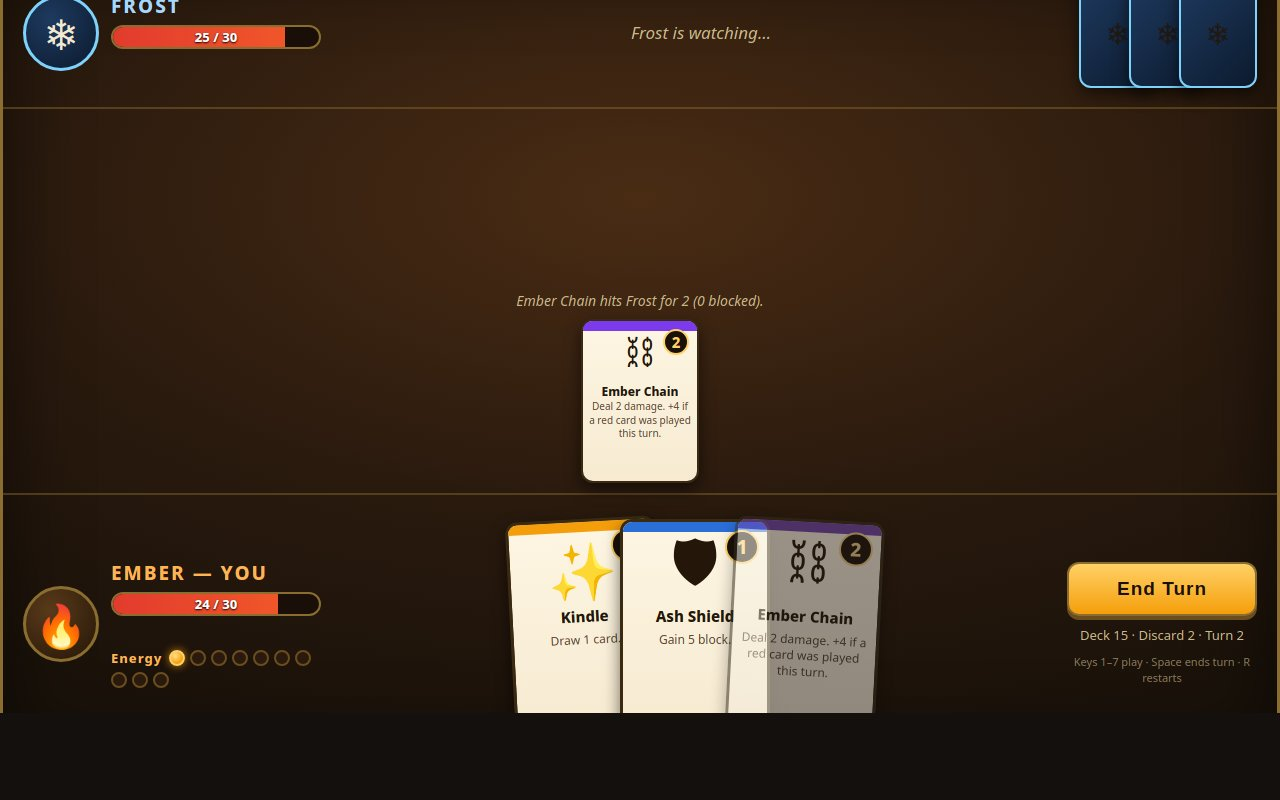
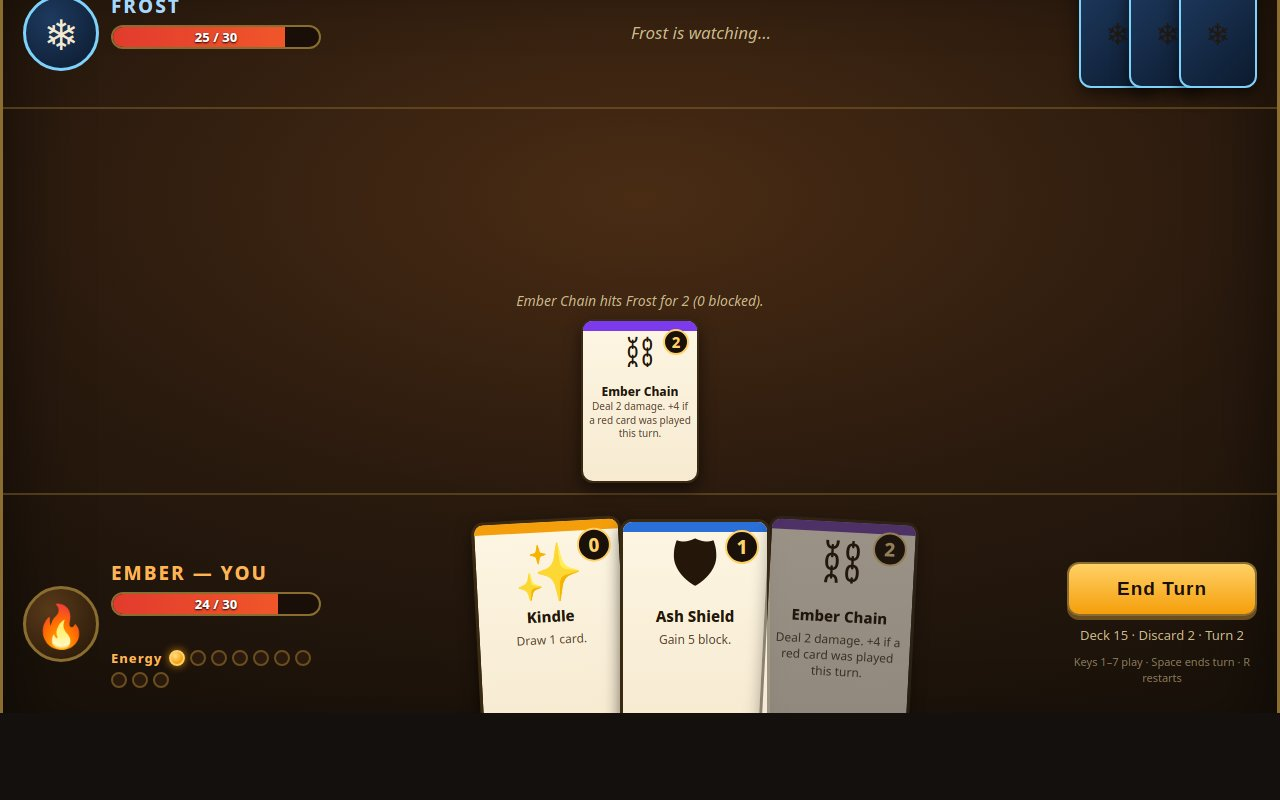
Fix hand legibility: spread player-hand cards so every cost circle and name is visible

Changed region(s): [[0.5625, 0.625, 0.7188, 0.9062], [0.3438, 0.625, 0.5, 0.9062]]

diff --git a/game/style.css b/game/style.css
@@ -102,8 +102,12 @@ body {
   transition: transform 0.18s ease, box-shadow 0.18s ease, opacity 0.18s ease;
   transform: rotate(var(--tilt, 0deg));
 }
-#player-hand .card { margin-left: -40px; }
-#player-hand.tight .card { margin-left: -58px; }
+#player-hand .card { margin-left: -6px; }
+#player-hand.tight .card { margin-left: -6px; width: 118px; height: 164px; border-width: 2px; }
+#player-hand.tight .card .art { font-size: 40px; height: 62px; }
+#player-hand.tight .card .card-name { font-size: 12px; }
+#player-hand.tight .card .card-text { font-size: 10px; padding: 0 6px; }
+#player-hand.tight .card .cost { width: 26px; height: 26px; font-size: 15px; }
 #player-hand .card:first-child { margin-left: 0; }
 .card.small { width: 118px; height: 164px; border-width: 2px; }
 .card.small .art { font-size: 40px; height: 62px; }
